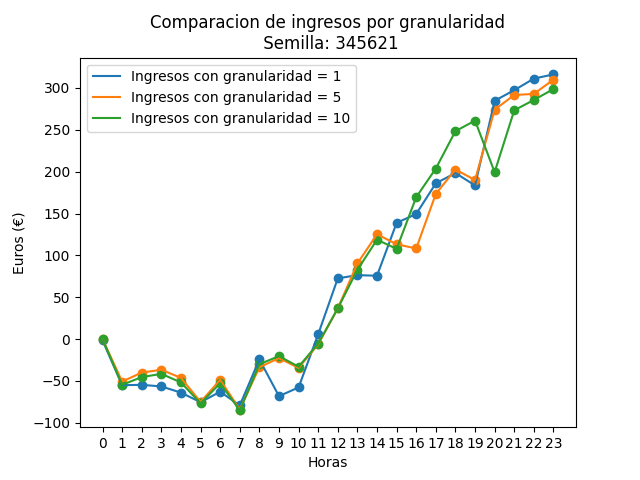
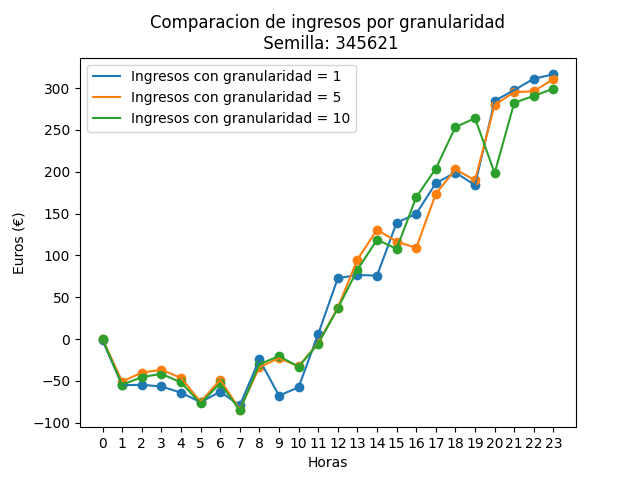
auto-commit:10/03/2023 a las 13:13:46,13

diff --git a/2º Cuatrimestre/[MByHB] Modelos Bioinspirados y Heurísticas de Búsquedas/Prácticas/Práctica 1. Búsquedas Locales/_4_Búsqueda_Primero_el_Mejor/busqueda_elprimero.py b/2º Cuatrimestre/[MByHB] Modelos Bioinspirados y Heurísticas de Búsquedas/Prácticas/Práctica 1. Búsquedas Locales/_4_Búsqueda_Primero_el_Mejor/busqueda_elprimero.py
@@ -15,6 +15,9 @@ capacidad_bateria = constantes.capacidad_bateria
 granularidades = constantes.granularidad
 semillas = constantes.semillas
 
+evaluaciones = np.tile(np.array([0 for _ in range(numero_repeticiones)], dtype=np.float64), (3, 1))
+dinero = np.tile(np.array([0 for _ in range(numero_repeticiones)], dtype=np.float64), (3, 1))
+
 if isRandom:
     precio_venta = constantes.precio_venta_random
     precio_compra = constantes.precio_compra_random
@@ -44,6 +47,7 @@ def genera_vecinos(solucion, granularidad, pos):
 
 # Algoritmo de busqueda el mejor vecino
 def busqueda_primero(semilla, granularidad):
+    random.seed(semilla)
     solucion_actual = base.generar_inicial(semilla, 24, granularidad)  # Genera la solucion inicial
     mejor_vecino = solucion_actual
     contador = 0
@@ -55,25 +59,114 @@ def busqueda_primero(semilla, granularidad):
             # Hasta que la funcion de coste del vecino sea mejor que la del mejor vecino
             # o hasta que se haya generado el espacio de busqueda completo
             contador += 2
-            if base.funcion_evaluacion(solucion_vecina, isRandom) > base.funcion_evaluacion(mejor_vecino, isRandom) or \
-                    pos > 23:
+            if base.funcion_evaluacion(solucion_vecina, isRandom)[0] > base.funcion_evaluacion(mejor_vecino, isRandom)[0]\
+                    or pos > 23:
+
                 break
             pos += 1
 
         # Si el coste de la solucion vecina es mejor que el de la solucion actual, se actualiza
         # la solucion
         contador += 2
-        if base.funcion_evaluacion(solucion_vecina, isRandom) > base.funcion_evaluacion(solucion_actual, isRandom):
+
+        if base.funcion_evaluacion(solucion_vecina, isRandom)[0] > base.funcion_evaluacion(solucion_actual, isRandom)[0]:
             solucion_actual = solucion_vecina
             mejor_vecino = solucion_actual
 
+
         contador += 2
         # Hasta que el coste de la solucion vecina sea peor o igual que el coste de la solucion actual.
-        if base.funcion_evaluacion(solucion_vecina, isRandom) <= base.funcion_evaluacion(solucion_actual, isRandom):
+        if base.funcion_evaluacion(solucion_vecina, isRandom)[0] <= base.funcion_evaluacion(solucion_actual, isRandom)[0]:
             break
 
-    print(contador)
-    return solucion_actual
+    #print(contador)
+    return base.funcion_evaluacion(solucion_actual, isRandom), contador, solucion_actual
 
 
-print(busqueda_primero(521463, 1))
+def graficas_primero():
+    # Llamamos a la funcion de búsqueda:
+    for i in range(numero_repeticiones):
+        ingresos_granularidad = np.tile(np.array([0 for _ in range(24)], dtype=np.float64), (3, 1))
+        for g in range(len(granularidades)):
+            (dinero_mejor, dinero_acumulado, bateria_hora), num_evaluaciones, solucion = busqueda_primero(semillas[i],
+                                                                                                          granularidades[g])
+
+            ingresos_granularidad[g] = dinero_acumulado
+            dinero[g, i] = dinero_mejor
+            evaluaciones[g, i] = num_evaluaciones
+
+            # Dinero acumulado en cada hora
+            fig, ax = plt.subplots()
+            plt.title(f"Búsqueda Primero El Mejor. G = {granularidades[g]}, S = {semillas[i]}")
+            ax.set_xticks(range(0, 23, 1))
+            ln0 = ax.plot([j for j in range(24)], [cent / 100 for cent in dinero_acumulado],
+                          label="Dinero Acumulado")
+            ax.scatter([j for j in range(24)], [cent / 100 for cent in dinero_acumulado])
+
+            # Capacidad de la bateria en cada hora
+            ax1 = ax.twinx()
+            ln1 = ax1.plot([j for j in range(24)], bateria_hora, c='orange', label="Bateria")
+            ax1.scatter([j for j in range(24)], bateria_hora, c='orange')
+            ax.set_xlabel("Horas")
+            ax.set_ylabel("Euros (€)")
+            ax1.set_ylabel("MW")
+            #ax1.set(ylim=ax.get_ylim())
+            leg = ln0 + ln1
+            labs = [legend.get_label() for legend in leg]
+            plt.legend(leg, labs, loc='upper center', bbox_to_anchor=(0.5, 1.17), ncol=3)
+            if not isRandom:
+                plt.savefig(f'.\\graficas\\ProblemaReal\\'
+                            f'firstbest_search_g{granularidades[g]}_s{semillas[i]}_ProblemaReal.png')
+            else:
+                plt.savefig(f'.\\graficas\\ProblemaAleatorio\\'
+                            f'firstbest_search_g{granularidades[g]}_s{semillas[i]}_ProblemaAleatorio.png')
+            plt.show()  # Mostramos la gráfica
+            plt.close()
+            print(solucion)
+
+        # Grafica de ingresos de las tres granularidades:
+        fig, ax = plt.subplots()
+        plt.title(f"Comparacion de ingresos por granularidad\n Semilla: {semillas[i]}")
+        for granularidad in range(3):
+            ln0 = ax.plot([j for j in range(24)], [cent / 100 for cent in ingresos_granularidad[granularidad, :]],
+                          label=f"Ingresos con granularidad = {granularidades[granularidad]}")
+            ax.scatter([j for j in range(24)], [cent / 100 for cent in ingresos_granularidad[granularidad, :]])
+
+        plt.legend()
+        ax.set_xticks(range(0, 24, 1))
+        plt.xlabel("Horas")
+        plt.ylabel("Euros (€)")
+
+        if not isRandom:
+            plt.savefig(f'.\\graficas\\ProblemaReal\\ingresos-granularidad\\'
+                        f'firstbest_search_s{semillas[i]}_ProblemaReal.png')
+        else:
+            plt.savefig(f'.\\graficas\\ProblemaAleatorio\\ingresos-granularidad\\'
+                        f'firstbest_search_s{semillas[i]}_ProblemaAleatorio.png')
+        plt.show()
+        plt.close()
+
+    # Generamos los datos obtenidos de la búsqueda
+    for gr in range(3):
+        data = {
+            'Media Evaluaciones': [statistics.mean(evaluaciones[gr, :])],
+            'Mejor Evaluación': [min(evaluaciones[gr, :])],
+            'Desviación Evaluaciones': [statistics.stdev(evaluaciones[gr, :])],
+            'Media Dinero (€)': [round(statistics.mean(dinero[gr, :]) / 100, 2)],
+            'Mejor Dinero (€)': [round(max(dinero[gr, :]) / 100, 2)],
+            'Desviación Dinero (€)': [round(statistics.stdev(dinero[gr, :]) / 100, 2)]
+        }
+
+        # Opciones de Pandas para mostrar la tabla completa en la consola
+        pd.set_option('display.max_rows', None)
+        pd.set_option('display.max_columns', None)
+        pd.set_option('display.width', None)
+        pd.set_option('display.max_colwidth', None)
+
+        # Mostramos los datos obtenidos
+        print(f"Granularidad: {granularidades[gr]}")
+        print(pd.DataFrame(data))
+
+
+if __name__ == "__main__":
+    graficas_primero()

diff --git a/2º Cuatrimestre/[MByHB] Modelos Bioinspirados y Heurísticas de Búsquedas/Prácticas/Práctica 1. Búsquedas Locales/_5_Búsqueda_VND/busqueda_vnd.py b/2º Cuatrimestre/[MByHB] Modelos Bioinspirados y Heurísticas de Búsquedas/Prácticas/Práctica 1. Búsquedas Locales/_5_Búsqueda_VND/busqueda_vnd.py
@@ -55,6 +55,22 @@ def entorno(solucion_actual, granularidad, k):
     return entorno_soluciones
 
 
+def generar_vecino(solucion_actual, granularidad, indices):
+    solucion_vecina = solucion_actual.copy()
+    for pos in indices:
+        suma = pos < 24
+        if not suma and solucion_vecina[pos % 24] - granularidad >= -100:
+            solucion_vecina[pos % 24] -= granularidad
+        elif not suma:
+            solucion_vecina[pos % 24] = -100
+        elif suma and solucion_vecina[pos % 24] + granularidad <= 100:
+            solucion_vecina[pos % 24] += granularidad
+        else:
+            solucion_vecina[pos % 24] = 100
+
+    return solucion_vecina
+
+
 def busqueda_elmejor(solucion_par, k, granularidad):
     solucion_inicial = solucion_par
     solucion_actual = solucion_inicial
@@ -67,9 +83,9 @@ def busqueda_elmejor(solucion_par, k, granularidad):
         mejor_vecino = solucion_actual
         dinero_vecino, dinero_acumulado_vecino, bateria_hora_vecino = base.funcion_evaluacion(mejor_vecino, isRandom)
 
-        for s_prima in entorno(solucion_actual, granularidad, k):  # Repetir para toda S' perteneciente a E(S_act)
+        for indices in combinations(range(48), estructura_entornos[k]):  # Repetir para toda S' perteneciente a E(S_act)
             # Si el objetivo(s_prima) es mejor que objetivo(mejor_vecino)
-
+            s_prima = generar_vecino(solucion_actual, granularidad, indices)
             dinero_sprima, dinero_acumulado_sprima, bateria_hora_sprima = base.funcion_evaluacion(s_prima, isRandom)
 
             if dinero_sprima > dinero_vecino:
@@ -104,7 +120,7 @@ def busqueda_elmejor_vnd(semilla, granularidad):
     k = 0
 
     while k < len(estructura_entornos):  # Repetir, hasta que k=kmax, la siguiente secuencia:
-        #print(f"K = {k}")
+        print(f"K = {k}")
         # a) Exploración del entorno: Encontrar la mejor solución s' del k-ésimo entorno de s.
         dinero_obtenido, dinero_acumulado, bateria_hora, n_evaluaciones, solucion_obtenida = busqueda_elmejor(
             solucion_inicial, k, granularidad)
@@ -139,7 +155,7 @@ def grafica_elmejor_vnd():
 
             # Dinero acumulado en cada hora
             fig, ax = plt.subplots()
-            plt.title(f"Búsqueda El Mejor. G = {granularidades[g]}, S = {semillas[i]}")
+            plt.title(f"Búsqueda El Mejor VND. G = {granularidades[g]}, S = {semillas[i]}")
             ax.set_xticks(range(0, 23, 1))
             ln0 = ax.plot([j for j in range(24)], [cent / 100 for cent in dinero_acumulado],
                           label="Dinero Acumulado")

diff --git a/2º Cuatrimestre/[MByHB] Modelos Bioinspirados y Heurísticas de Búsquedas/Prácticas/Práctica 1. Búsquedas Locales/_3_Búsqueda_del_Mejor/busqueda_elmejor.py b/2º Cuatrimestre/[MByHB] Modelos Bioinspirados y Heurísticas de Búsquedas/Prácticas/Práctica 1. Búsquedas Locales/_3_Búsqueda_del_Mejor/busqueda_elmejor.py
@@ -50,6 +50,20 @@ def entorno(solucion_actual, granularidad):
     return entorno_soluciones
 
 
+def generar_vecino(solucion_actual, granularidad, pos, suma):
+    solucion_vecina = solucion_actual.copy()
+
+    if not suma and solucion_vecina[pos % 24] - granularidad >= -100:
+        solucion_vecina[pos % 24] -= granularidad
+    elif not suma:
+        solucion_vecina[pos % 24] = -100
+    elif suma and solucion_vecina[pos % 24] + granularidad <= 100:
+        solucion_vecina[pos % 24] += granularidad
+    else:
+        solucion_vecina[pos % 24] = 100
+
+    return solucion_vecina
+
 def busqueda_elmejor(semilla, granularidad):
     random.seed(semilla)
 
@@ -64,8 +78,10 @@ def busqueda_elmejor(semilla, granularidad):
         mejor_vecino = solucion_actual
         num_evaluaciones += 1
         dinero_vecino, dinero_acumulado_vecino, bateria_hora_vecino = base.funcion_evaluacion(mejor_vecino, isRandom)
-        # todo: no guardar el entorno, sino generarlo directamente en el bucle
-        for s_prima in entorno(solucion_actual, granularidad):  # Repetir para toda S' perteneciente a E(S_act)
+
+        for pos in range(48):  # Repetir para toda S' perteneciente a E(S_act)
+
+            s_prima = generar_vecino(solucion_actual, granularidad, pos, pos < 24)
 
             num_evaluaciones += 1
             dinero_sprima, dinero_acumulado_sprima, bateria_hora_sprima = base.funcion_evaluacion(s_prima, isRandom)

diff --git a/2º Cuatrimestre/[MByHB] Modelos Bioinspirados y Heurísticas de Búsquedas/Prácticas/Práctica 1. Búsquedas Locales/_6_Búsqueda_Enfriamiento_Simulado/busqueda_ES.py b/2º Cuatrimestre/[MByHB] Modelos Bioinspirados y Heurísticas de Búsquedas/Prácticas/Práctica 1. Búsquedas Locales/_6_Búsqueda_Enfriamiento_Simulado/busqueda_ES.py
@@ -9,7 +9,7 @@ import matplotlib.pyplot as plt
 import pandas as pd
 import numpy as np
 
-isRandom = True
+isRandom = False
 numero_repeticiones = 5
 
 # Constantes
